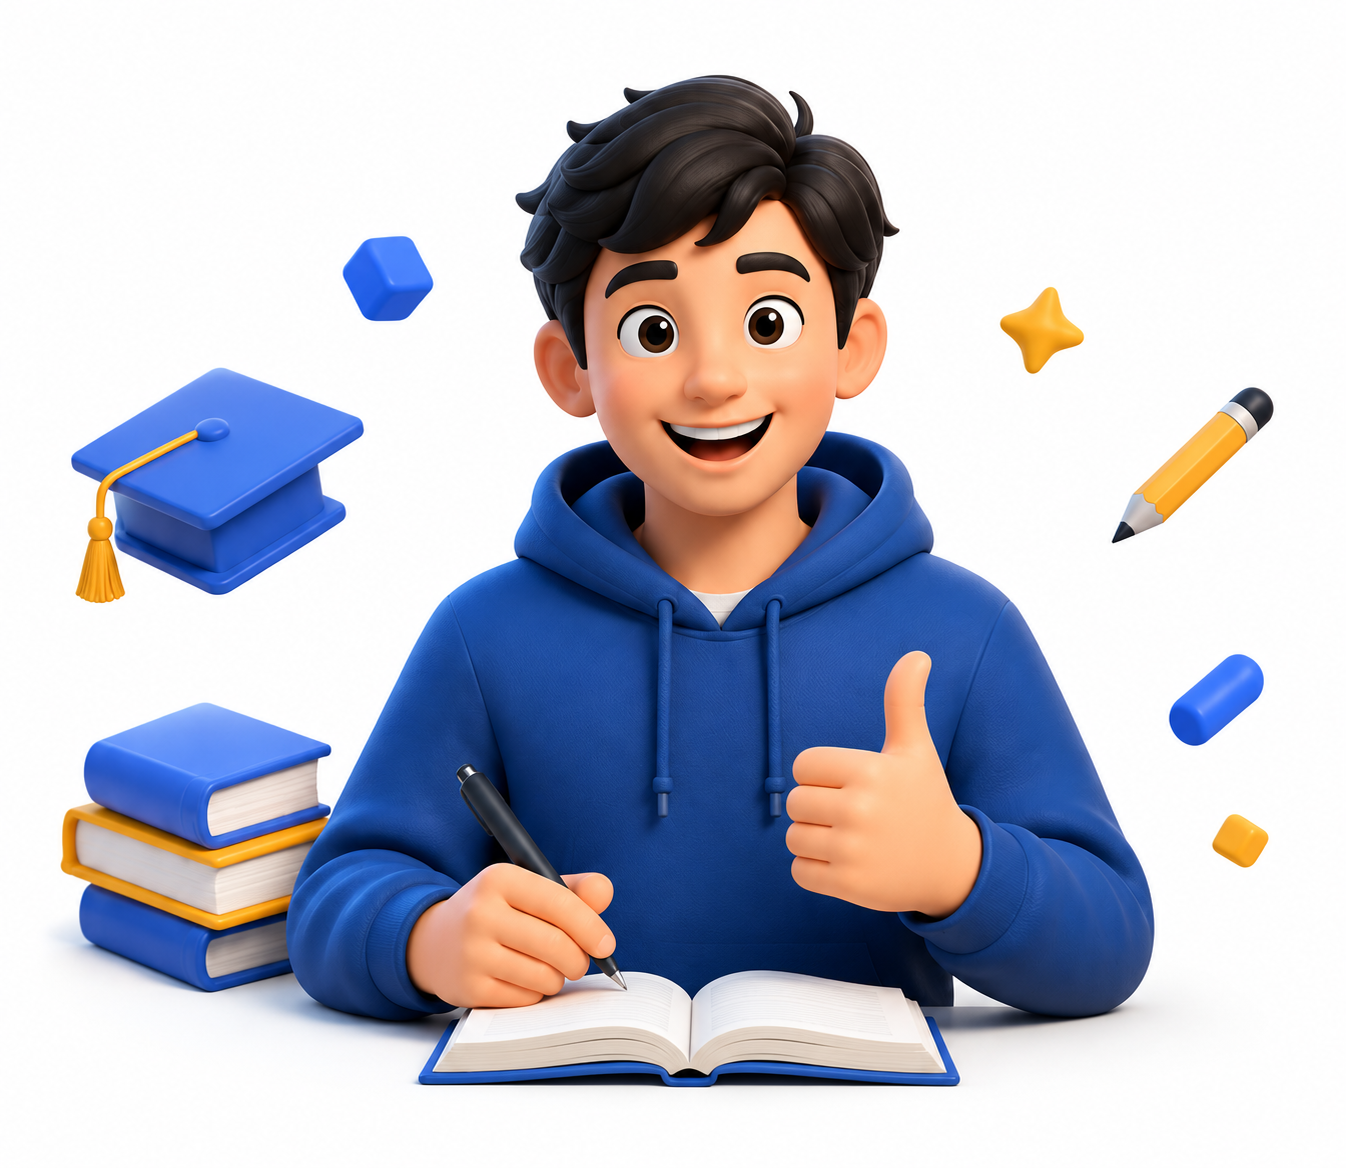
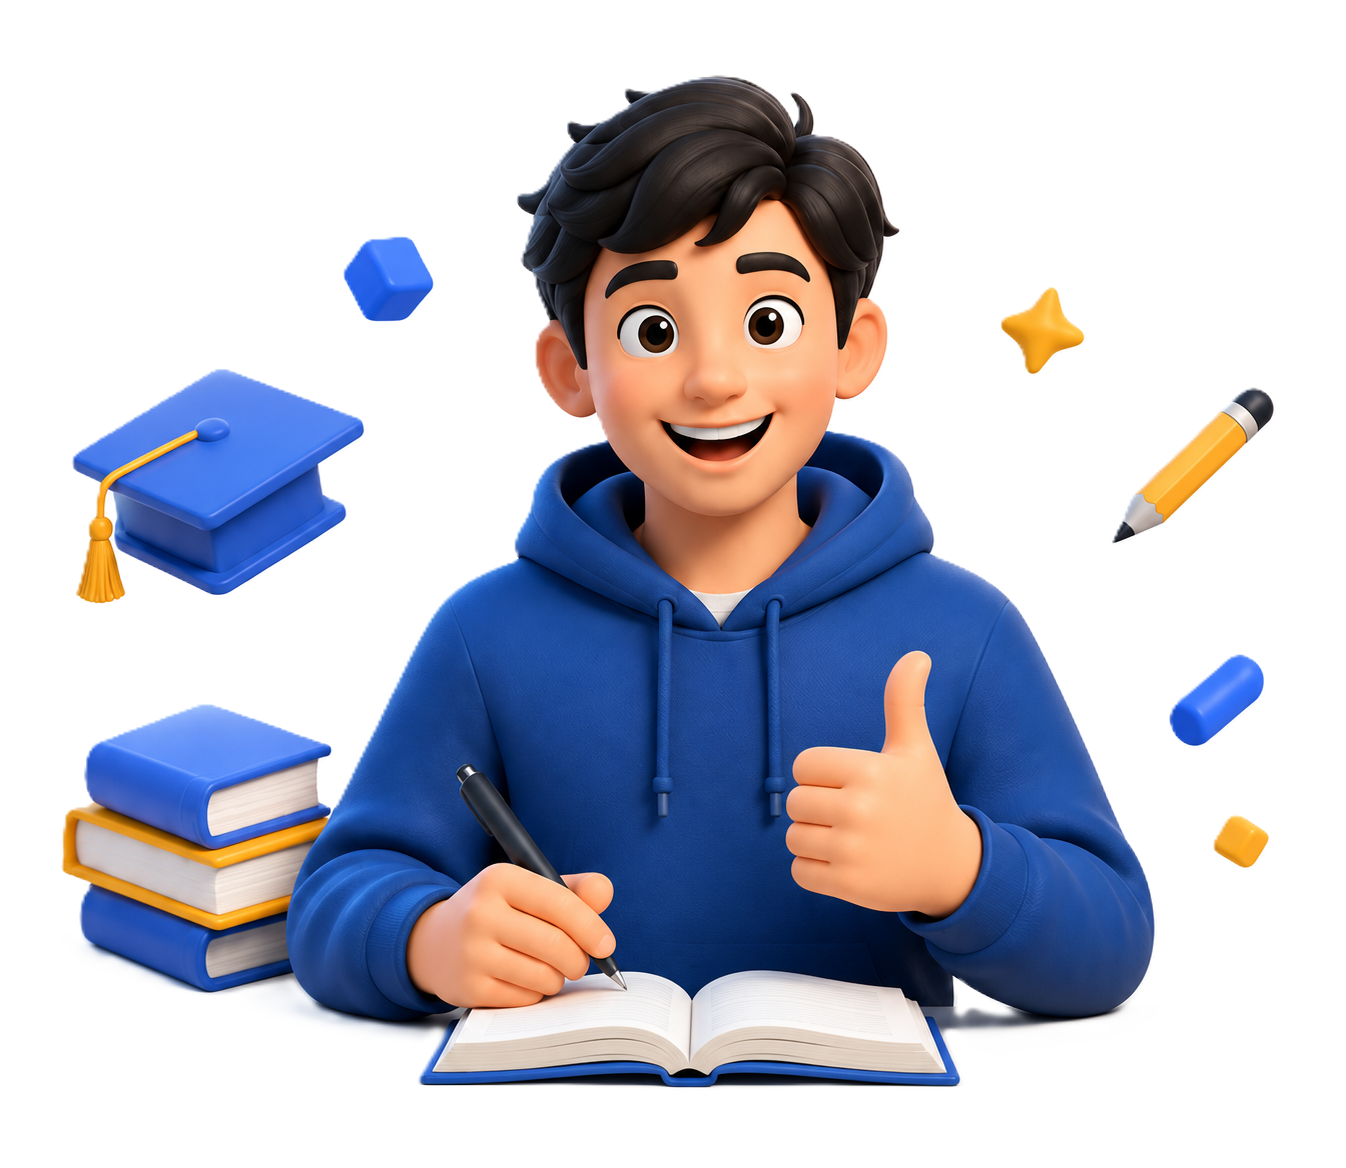
Mise a jour

diff --git a/lib/screens/login_screen.dart b/lib/screens/login_screen.dart
@@ -64,8 +64,8 @@ class _LoginScreenState extends State<LoginScreen> {
               Center(
                 child: Image.asset(
                   'assets/images/logo.png',
-                  width: 120,
-                  height: 120,
+                  width: 200,
+                  height: 200,
                 ),
               ),
               const SizedBox(height: 24),
@@ -73,8 +73,8 @@ class _LoginScreenState extends State<LoginScreen> {
               Center(
                 child: Image.asset(
                   'assets/images/boy.png',
-                  width: 200,
-                  height: 200,
+                  width: 250,
+                  height: 250,
                   fit: BoxFit.contain,
                 ),
               ),
